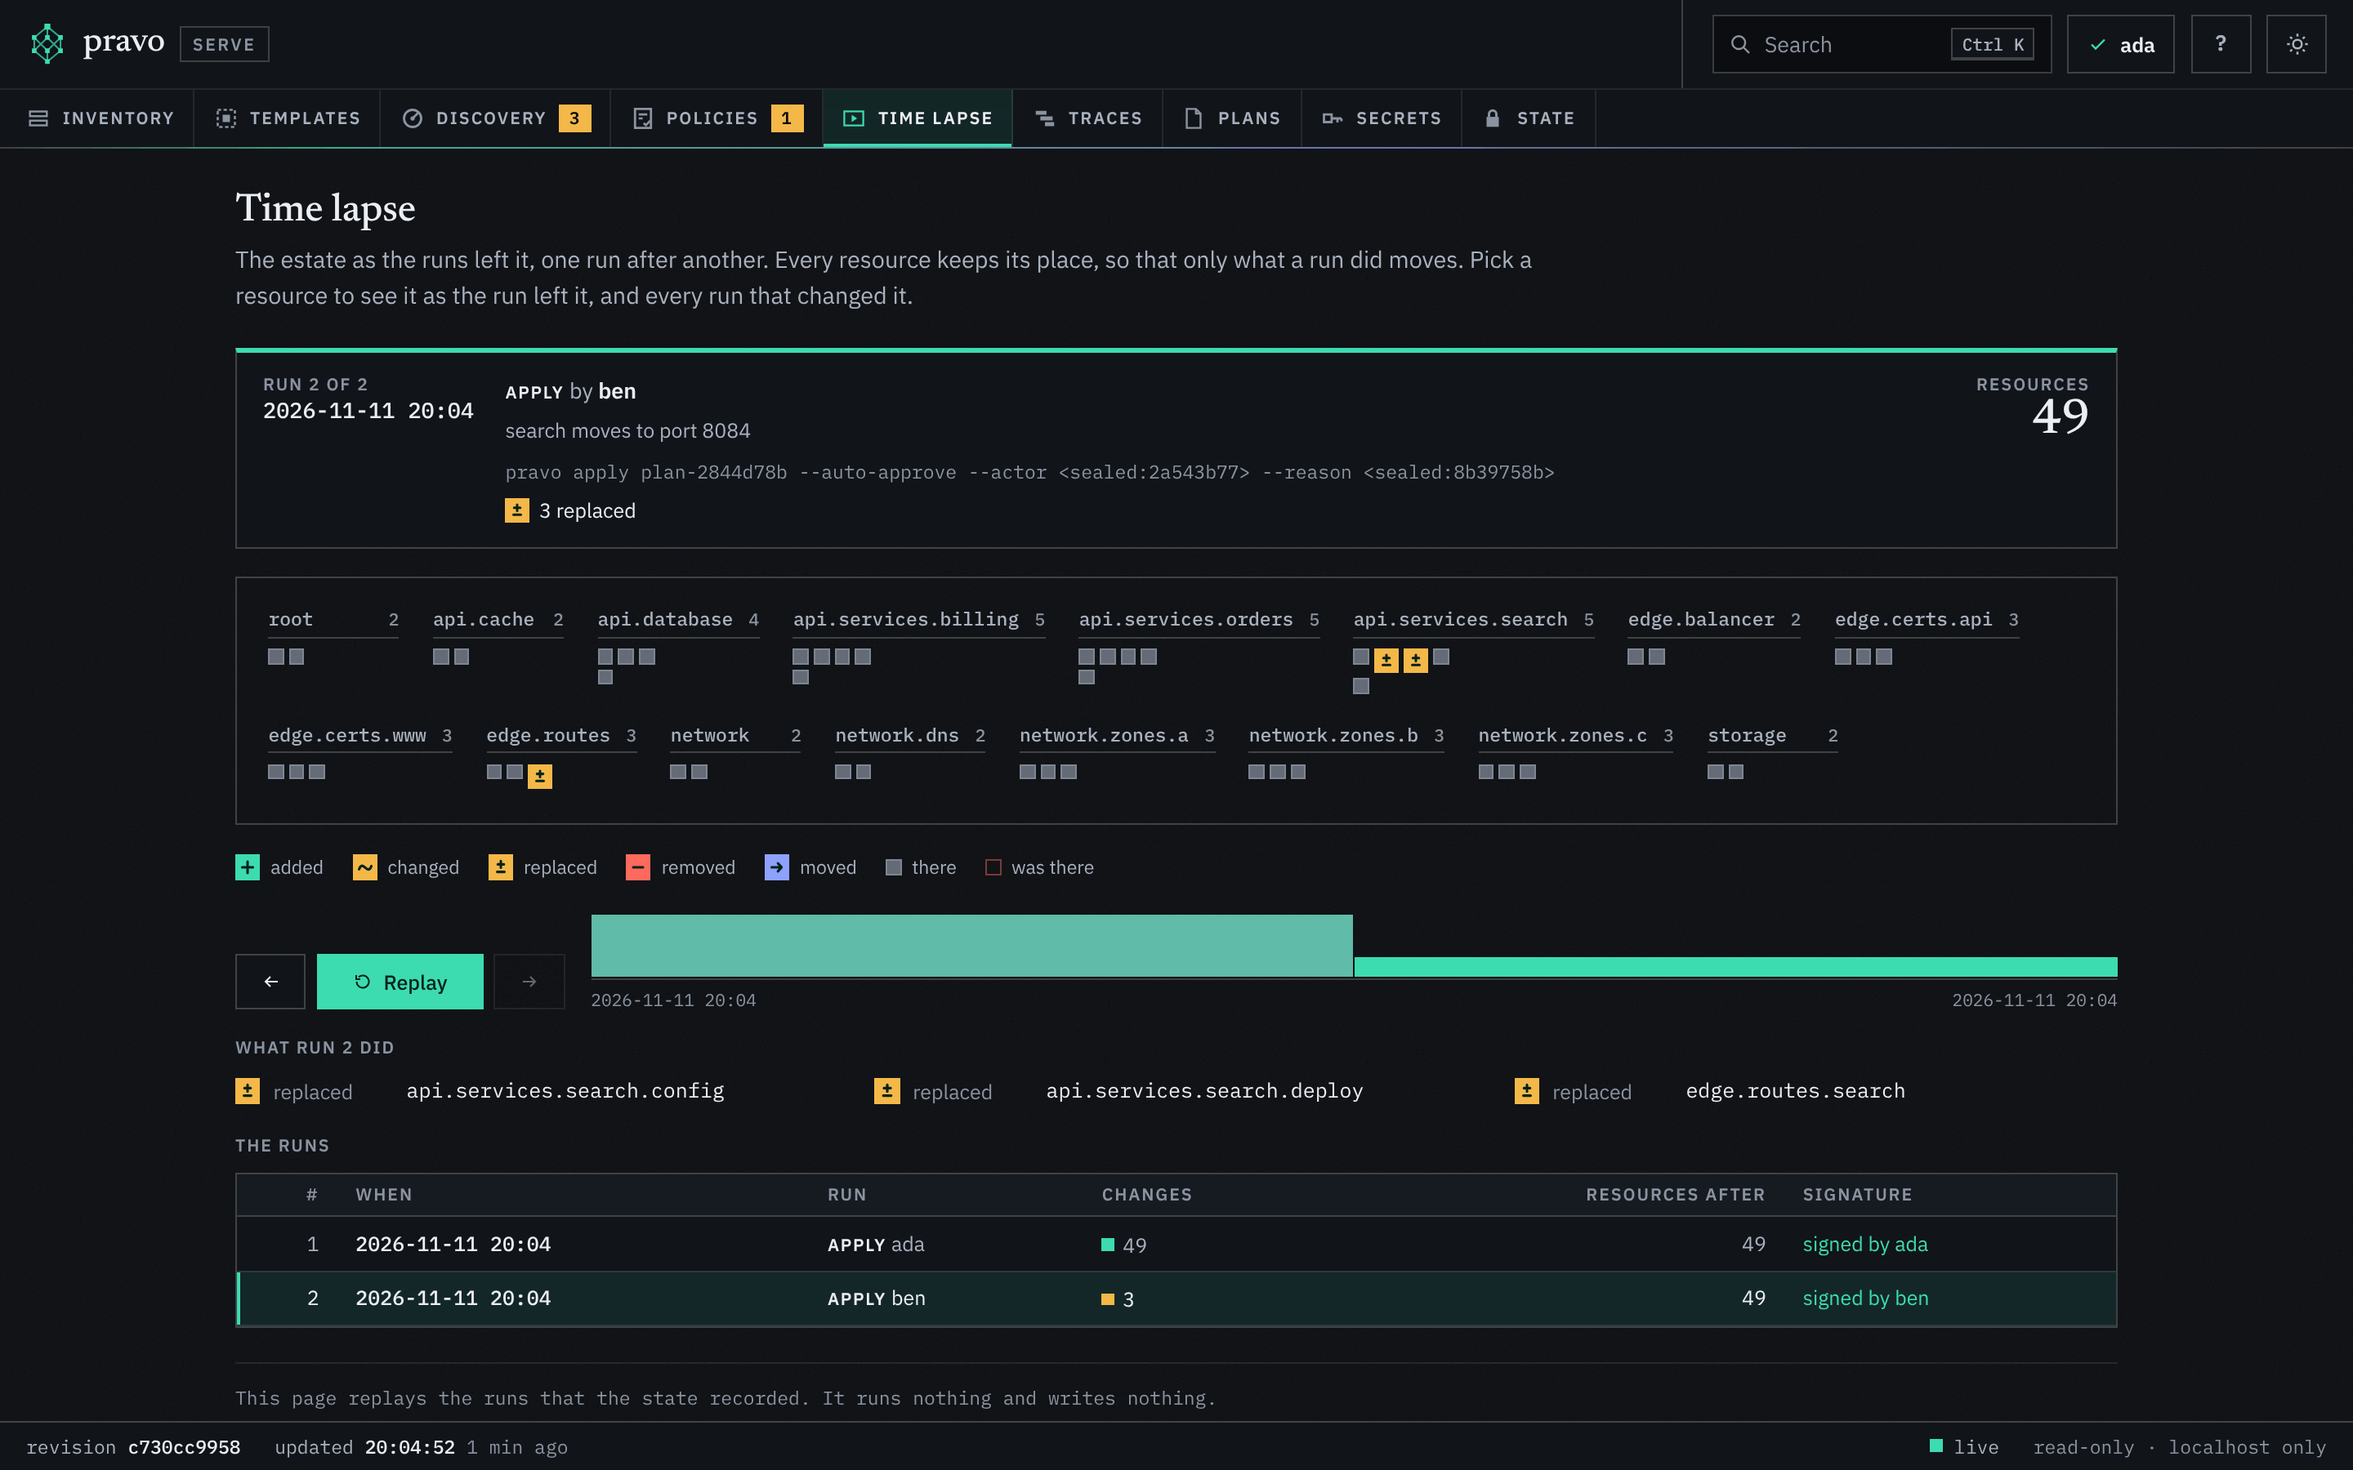
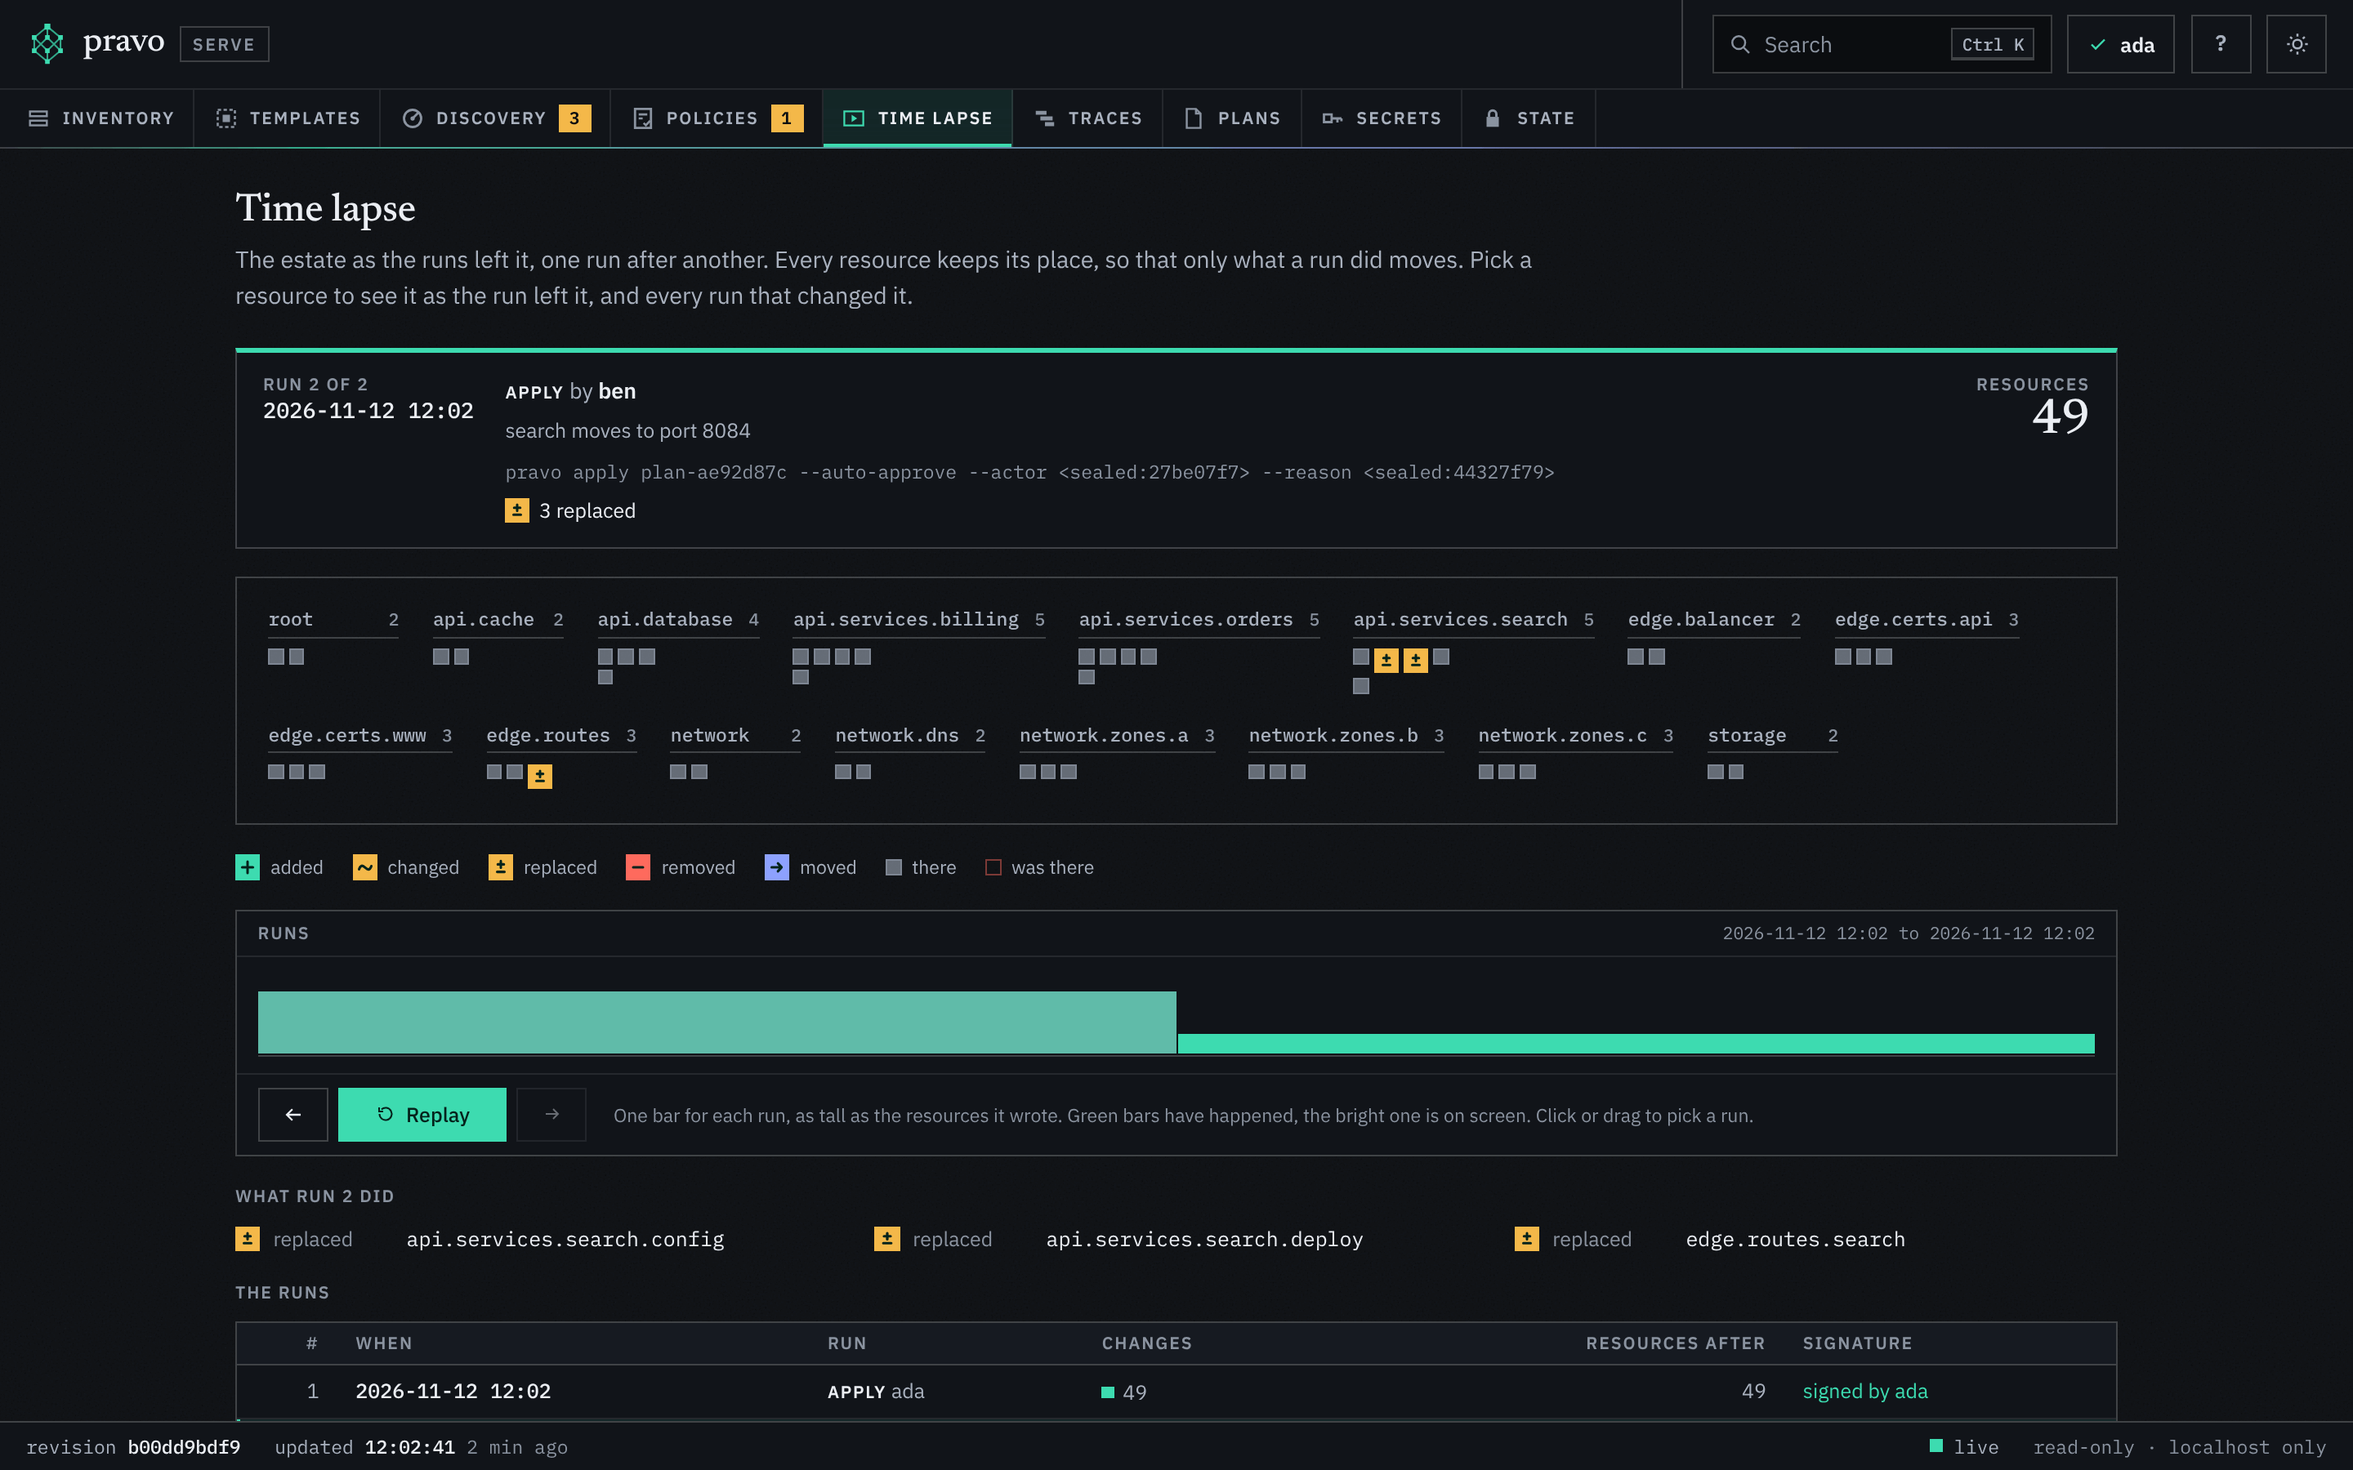
Time lapse: one framed control for the runs, with a line that says what a bar is (#285)
Claude-Session: https://claude.ai/code/session_013zZFSs1n8VQYfWL17CDhDy

diff --git a/internal/serve/web/assets/timelapse.css b/internal/serve/web/assets/timelapse.css
@@ -64,18 +64,21 @@ body:has(.app[data-view="timelapse"]) .planstrip, body:has(.app[data-view="timel
 .tl-key li { display: inline-flex; align-items: center; gap: .4rem; }
 
 /* ---- the controls and the timeline: a bar for each run, as tall as what it changed ---- */
-.tl-ctl { display: flex; align-items: flex-end; gap: 1rem; }
+.tl-deck { border: 1px solid var(--line-strong); background: var(--surface); }
+.tl-deck-h { display: flex; justify-content: space-between; gap: 1rem; padding: .5rem .8rem; border-bottom: 1px solid var(--line); font: 400 var(--fs-1)/1 var(--font-mono); color: var(--text-3); }
+.tl-deck-t { font: 600 var(--fs-1)/1 var(--font-ui); letter-spacing: .09em; text-transform: uppercase; }
+.tl-deck-b { padding: .8rem .8rem .5rem; }
+.tl-deck-f { display: flex; align-items: center; gap: 1rem; padding: .5rem .8rem; border-top: 1px solid var(--line); }
+.tl-deck-k { margin: 0; font-size: var(--fs-2); color: var(--text-3); min-width: 0; }
 .tl-btns { display: flex; gap: .4rem; flex: none; }
 .tl-btn { display: inline-flex; align-items: center; gap: .4rem; min-height: 2.1rem; }
 .tl-btn:disabled { opacity: .4; pointer-events: none; }
 .tl-play { min-width: 6.4rem; justify-content: center; }
-.tl-time { flex: 1 1 auto; min-width: 0; }
-.tl-strip { display: flex; align-items: flex-end; gap: 1px; height: 2.7rem; padding: 0 0 1px; border-bottom: 1px solid var(--line-strong); cursor: ew-resize; touch-action: none; }
+.tl-strip { display: flex; align-items: flex-end; gap: 1px; height: 3rem; padding: 0 0 1px; border-bottom: 1px solid var(--line-strong); cursor: ew-resize; touch-action: none; }
 .tl-strip:focus-visible { outline: none; box-shadow: var(--focus); }
 .tl-bar { flex: 1 1 0; min-width: 1px; background: var(--line-strong); }
 .tl-bar.past { background: color-mix(in srgb, var(--accent) 55%, var(--text-3)); }
 .tl-bar.cur { background: var(--accent); }
-.tl-ends { display: flex; justify-content: space-between; margin-top: .3rem; font: 400 var(--fs-1)/1 var(--font-mono); color: var(--text-3); }
 
 /* ---- what the run did, and the runs ---- */
 .tl-sec { min-width: 0; }
@@ -101,7 +104,7 @@ body:has(.app[data-view="timelapse"]) .planstrip, body:has(.app[data-view="timel
   .tl-pane { padding: .75rem .75rem 2rem; }
   .tl-readout { grid-template-columns: minmax(0, 1fr) auto; }
   .tl-what { grid-column: 1 / -1; grid-row: 2; }
-  .tl-ctl { flex-direction: column; align-items: stretch; }
+  .tl-deck-f { flex-direction: column; align-items: stretch; gap: .5rem; }
   .tl-list { grid-template-columns: minmax(0, 1fr); }
 }
 

diff --git a/internal/serve/web/assets/timelapse.js b/internal/serve/web/assets/timelapse.js
@@ -221,7 +221,7 @@ export class TimeLapseView {
     e.next = h('button', { type: 'button', class: 'btn tl-btn', 'aria-label': 'Next run', on: { click: () => { this.stop(); this.go(this.step + 1); } } }, icon('arrow'));
     const act = activity(m);
     const top = Math.max(1, ...act);
-    e.bars = act.map((n, i) => h('i', { class: 'tl-bar', style: `height: ${Math.round(3 + (BAR_MAX - 3) * Math.sqrt(n / top))}px`, 'aria-hidden': 'true', data: { i: String(i + 1) } }));
+    e.bars = act.map((n, i) => h('i', { class: 'tl-bar', style: `height: ${Math.round(3 + (BAR_MAX - 3) * Math.sqrt(n / top))}px`, 'aria-hidden': 'true', title: `Run ${i + 1}: ${plural(n, 'resource')} written`, data: { i: String(i + 1) } }));
     e.ticks = m.steps.map(() => h('i', { class: 'tl-tick', 'aria-hidden': 'true' }));
     e.tickrow = h('div', { class: 'tl-ticks', 'aria-hidden': 'true' }, e.ticks);
     e.strip = h('div', { class: 'tl-strip', role: 'slider', tabIndex: 0, 'aria-label': 'Run', 'aria-valuemin': '0', 'aria-valuemax': String(m.steps.length) }, e.bars);
@@ -236,9 +236,14 @@ export class TimeLapseView {
       e.stage,
       e.legend,
       e.rel,
-      h('div', { class: 'tl-ctl' },
-        h('div', { class: 'tl-btns' }, e.back, e.play, e.next),
-        h('div', { class: 'tl-time' }, e.strip, e.tickrow, h('div', { class: 'tl-ends' }, h('span', null, stamp(first.time)), h('span', null, stamp(last.time))))),
+      h('div', { class: 'tl-deck' },
+        h('div', { class: 'tl-deck-h' },
+          h('span', { class: 'tl-deck-t' }, 'Runs'),
+          h('span', { class: 'tl-deck-d' }, `${stamp(first.time)} to ${stamp(last.time)}`)),
+        h('div', { class: 'tl-deck-b' }, e.strip, e.tickrow),
+        h('div', { class: 'tl-deck-f' },
+          h('div', { class: 'tl-btns' }, e.back, e.play, e.next),
+          h('p', { class: 'tl-deck-k' }, 'One bar for each run, as tall as the resources it wrote. Green bars have happened, the bright one is on screen. Click or drag to pick a run.'))),
       older,
       e.changes,
       e.runs);

diff --git a/docs/reference/viewer-sections.md b/docs/reference/viewer-sections.md
@@ -298,14 +298,14 @@ The drawing has a group for each namespace and a square for each resource, in th
 |---|---|
 | The readout | Which run is shown, when it ran, its kind and who ran it (the actor, else the user), the revision of the specification it ran against, the reason it was given, its command line with the values masked as everywhere in the viewer, a count of what it added, changed, replaced, removed and moved, and how many resources the estate has after it. A run that did not finish says its status. |
 | The drawing | A square for each resource. One that the run wrote takes the mark of its action, the one that a plan gives the same action: plus for added, a wave for changed, plus over a line for replaced, minus for removed and an arrow for moved. A grey square is there, a dotted frame is not there yet, and an empty frame with a red edge was there and a run removed it. A rename is a removal at the old address and a move to the new one. Hover a square for its address; a click picks the resource (see below), and a second click lets it go. |
-| The controls | Back, Play and Next. Play steps through the runs in about fourteen seconds, however many there are, stops at the end and then offers Replay. |
-| The timeline | A bar for each run, as tall as the number of resources it wrote, filled up to the run that is shown. Click or drag to go to a run. With the focus on it, the arrow keys step by one, Page Up and Page Down by ten, Home goes to the state before the first run, End to the last run, and Space or Enter plays or pauses. |
+| The controls | Back, Play and Next, in the row under the bars, beside a line that says what a bar is. Play steps through the runs in about fourteen seconds, however many there are, stops at the end and then offers Replay. |
+| The timeline | One framed box headed Runs, with the times of the first and last run. It holds a bar for each run, as tall as the number of resources it wrote, filled up to the run that is shown. Click or drag to go to a run. With the focus on it, the arrow keys step by one, Page Up and Page Down by ten, Home goes to the state before the first run, End to the last run, and Space or Enter plays or pauses. |
 | What the run did | The resources of the run by name, each with its action, up to forty at first; a button shows the rest. A name picks the resource. |
 | The runs | A table of every run with its time, kind, who ran it, what it changed, how many resources there were after it and, where the state is sealed and a readers file is checked, whether its signature verifies. A row goes to that run. While a resource is picked, a column marks the runs that wrote it. |
 
 :::figure The Time lapse section of a project with two runs: the second replaced three resources, which are marked in the drawing and listed under it.
-<a class="shot shot-dark" href="../img/serve/timelapse-dark.png"><img src="../img/serve/timelapse-dark.png" width="1440" height="900" alt="The Time lapse section of the viewer with a project of two runs. The readout says run 2 of 2, an apply by ben that replaced three resources, with 49 resources after it. Under it the estate is drawn as a group of grey squares for each namespace, such as api.services.search and edge.routes, with the three replaced squares marked. A key names the marks, a row of Back, Replay and Next sits beside the timeline of two bars, and under it are the three resources the run replaced and a table of the two runs, each signed." loading="lazy"></a>
-<a class="shot shot-light" href="../img/serve/timelapse-light.png"><img src="../img/serve/timelapse-light.png" width="1440" height="900" alt="The Time lapse section of the viewer with a project of two runs. The readout says run 2 of 2, an apply by ben that replaced three resources, with 49 resources after it. Under it the estate is drawn as a group of grey squares for each namespace, such as api.services.search and edge.routes, with the three replaced squares marked. A key names the marks, a row of Back, Replay and Next sits beside the timeline of two bars, and under it are the three resources the run replaced and a table of the two runs, each signed." loading="lazy"></a>
+<a class="shot shot-dark" href="../img/serve/timelapse-dark.png"><img src="../img/serve/timelapse-dark.png" width="1440" height="900" alt="The Time lapse section of the viewer with a project of two runs. The readout says run 2 of 2, an apply by ben that replaced three resources, with 49 resources after it. Under it the estate is drawn as a group of grey squares for each namespace, such as api.services.search and edge.routes, with the three replaced squares marked. A key names the marks, one framed box holds the timeline of two bars, with the times of the first and last run above it and Back, Replay and Next below it, and under it are the three resources the run replaced and a table of the two runs, each signed." loading="lazy"></a>
+<a class="shot shot-light" href="../img/serve/timelapse-light.png"><img src="../img/serve/timelapse-light.png" width="1440" height="900" alt="The Time lapse section of the viewer with a project of two runs. The readout says run 2 of 2, an apply by ben that replaced three resources, with 49 resources after it. Under it the estate is drawn as a group of grey squares for each namespace, such as api.services.search and edge.routes, with the three replaced squares marked. A key names the marks, one framed box holds the timeline of two bars, with the times of the first and last run above it and Back, Replay and Next below it, and under it are the three resources the run replaced and a table of the two runs, each signed." loading="lazy"></a>
 :::
 
 The step is in the address as `ls=N`, the number of the run, so that a link shows the estate as one run left it. At most the newest 400 runs are read; when there are more, a sentence says how many were left out, and what they made is drawn as there from the start. A plan writes no resource and is not a step.

diff --git a/skills/pravo/references/reference/viewer-sections.md b/skills/pravo/references/reference/viewer-sections.md
@@ -242,8 +242,8 @@ The drawing has a group for each namespace and a square for each resource, in th
 |---|---|
 | The readout | Which run is shown, when it ran, its kind and who ran it (the actor, else the user), the revision of the specification it ran against, the reason it was given, its command line with the values masked as everywhere in the viewer, a count of what it added, changed, replaced, removed and moved, and how many resources the estate has after it. A run that did not finish says its status. |
 | The drawing | A square for each resource. One that the run wrote takes the mark of its action, the one that a plan gives the same action: plus for added, a wave for changed, plus over a line for replaced, minus for removed and an arrow for moved. A grey square is there, a dotted frame is not there yet, and an empty frame with a red edge was there and a run removed it. A rename is a removal at the old address and a move to the new one. Hover a square for its address; a click picks the resource (see below), and a second click lets it go. |
-| The controls | Back, Play and Next. Play steps through the runs in about fourteen seconds, however many there are, stops at the end and then offers Replay. |
-| The timeline | A bar for each run, as tall as the number of resources it wrote, filled up to the run that is shown. Click or drag to go to a run. With the focus on it, the arrow keys step by one, Page Up and Page Down by ten, Home goes to the state before the first run, End to the last run, and Space or Enter plays or pauses. |
+| The controls | Back, Play and Next, in the row under the bars, beside a line that says what a bar is. Play steps through the runs in about fourteen seconds, however many there are, stops at the end and then offers Replay. |
+| The timeline | One framed box headed Runs, with the times of the first and last run. It holds a bar for each run, as tall as the number of resources it wrote, filled up to the run that is shown. Click or drag to go to a run. With the focus on it, the arrow keys step by one, Page Up and Page Down by ten, Home goes to the state before the first run, End to the last run, and Space or Enter plays or pauses. |
 | What the run did | The resources of the run by name, each with its action, up to forty at first; a button shows the rest. A name picks the resource. |
 | The runs | A table of every run with its time, kind, who ran it, what it changed, how many resources there were after it and, where the state is sealed and a readers file is checked, whether its signature verifies. A row goes to that run. While a resource is picked, a column marks the runs that wrote it. |
 
